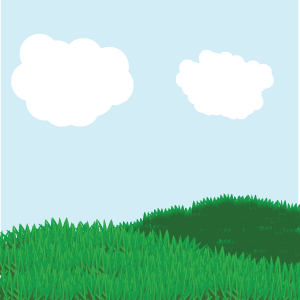
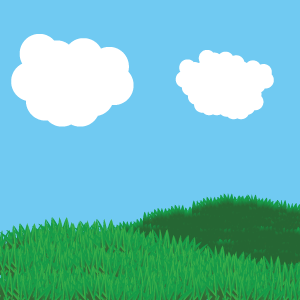
made sky darker in background image and updated readme

diff --git a/README.md b/README.md
@@ -1,0 +1,11 @@
+# Dual-N-Back
+---
+#### The Dual-N-Back test has been show to increase IQ with practice. 
+#### It has also been shown to be benificial to people with aspergers or alzheimer's.
+
+## ToDo
+---
+- #### Add instructions
+- #### should display your name somewhere when logged in
+- #### signin should change to signout when logged in
+- #### try loading all the animal images at once, and hidding/showing the proper image.
